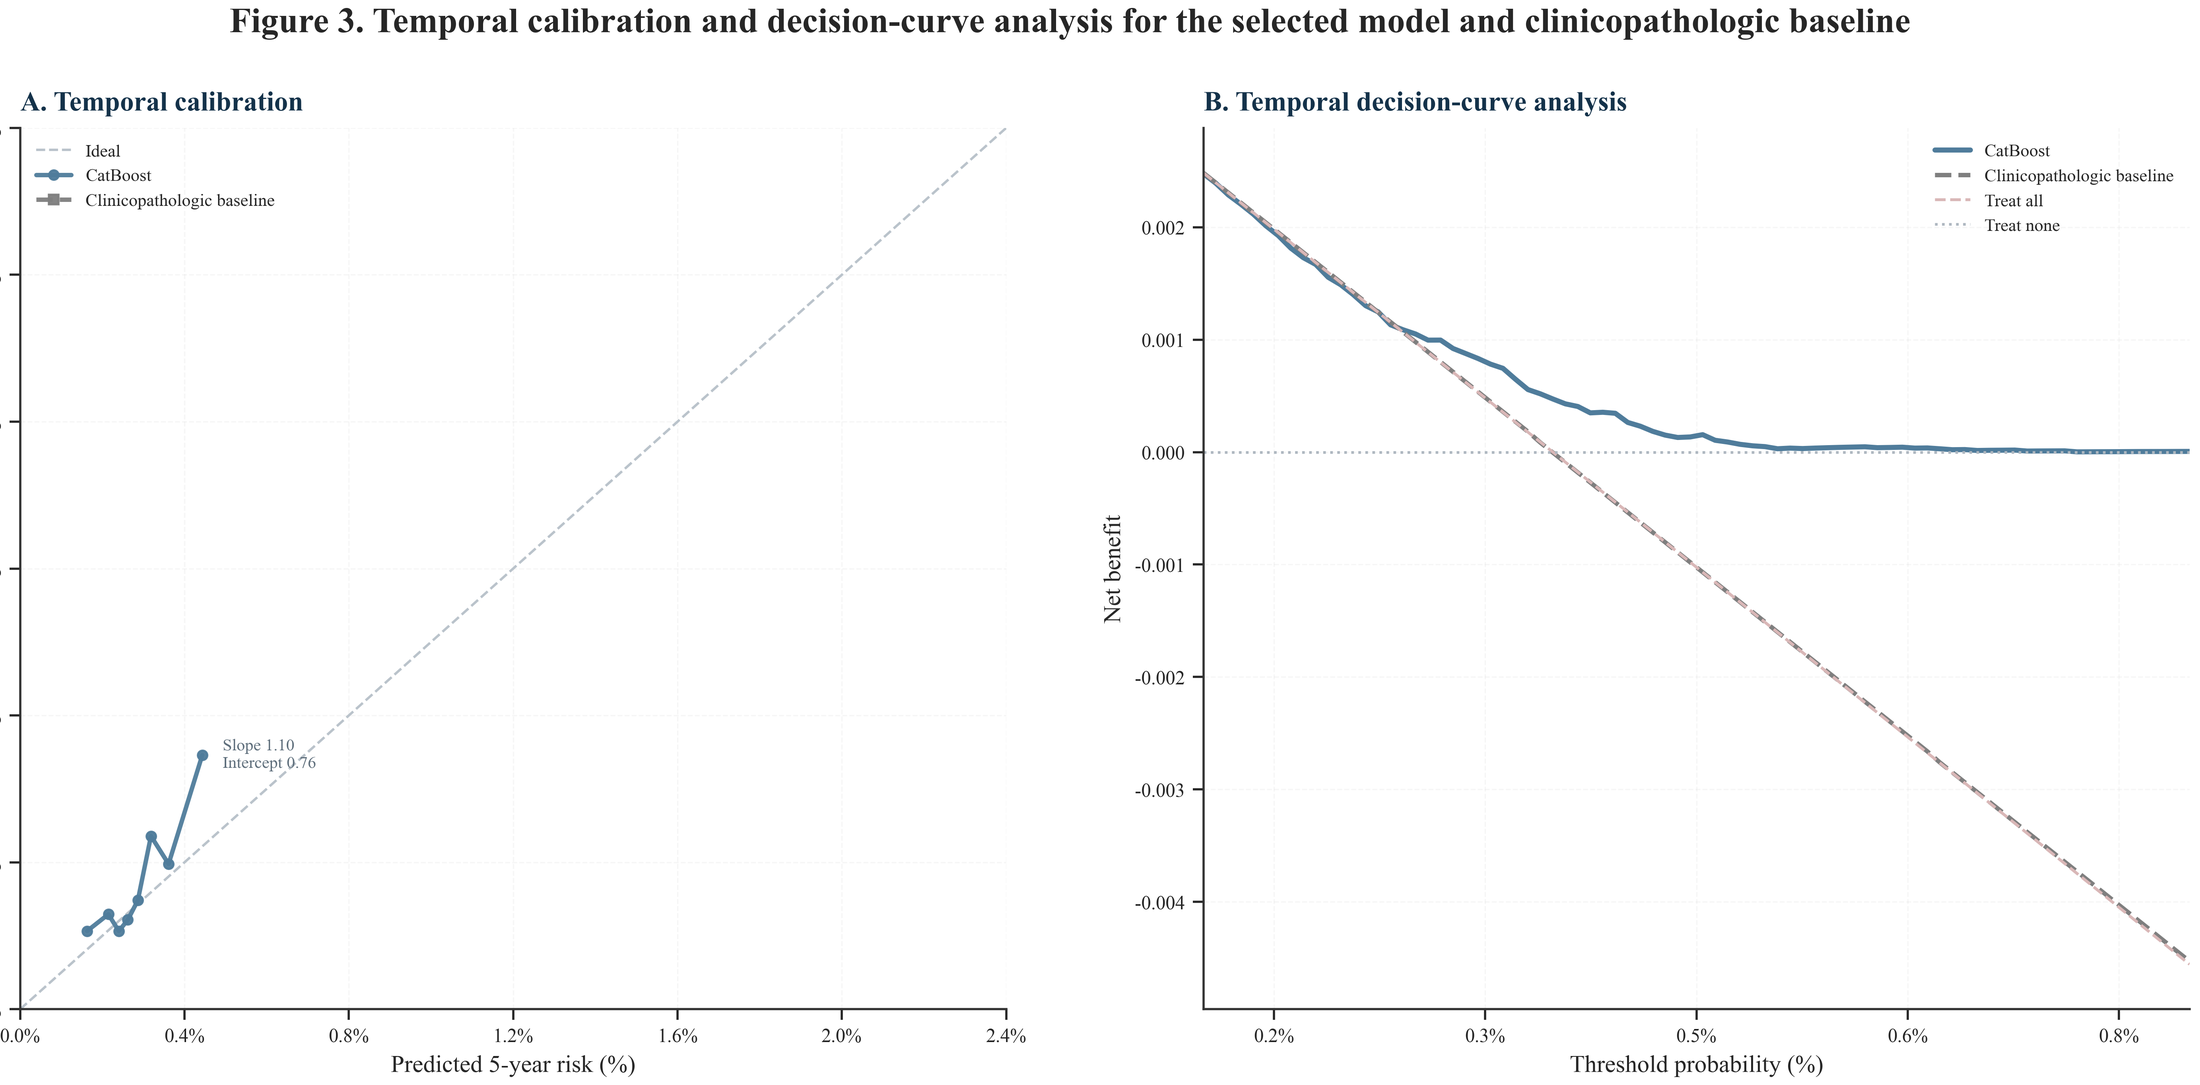
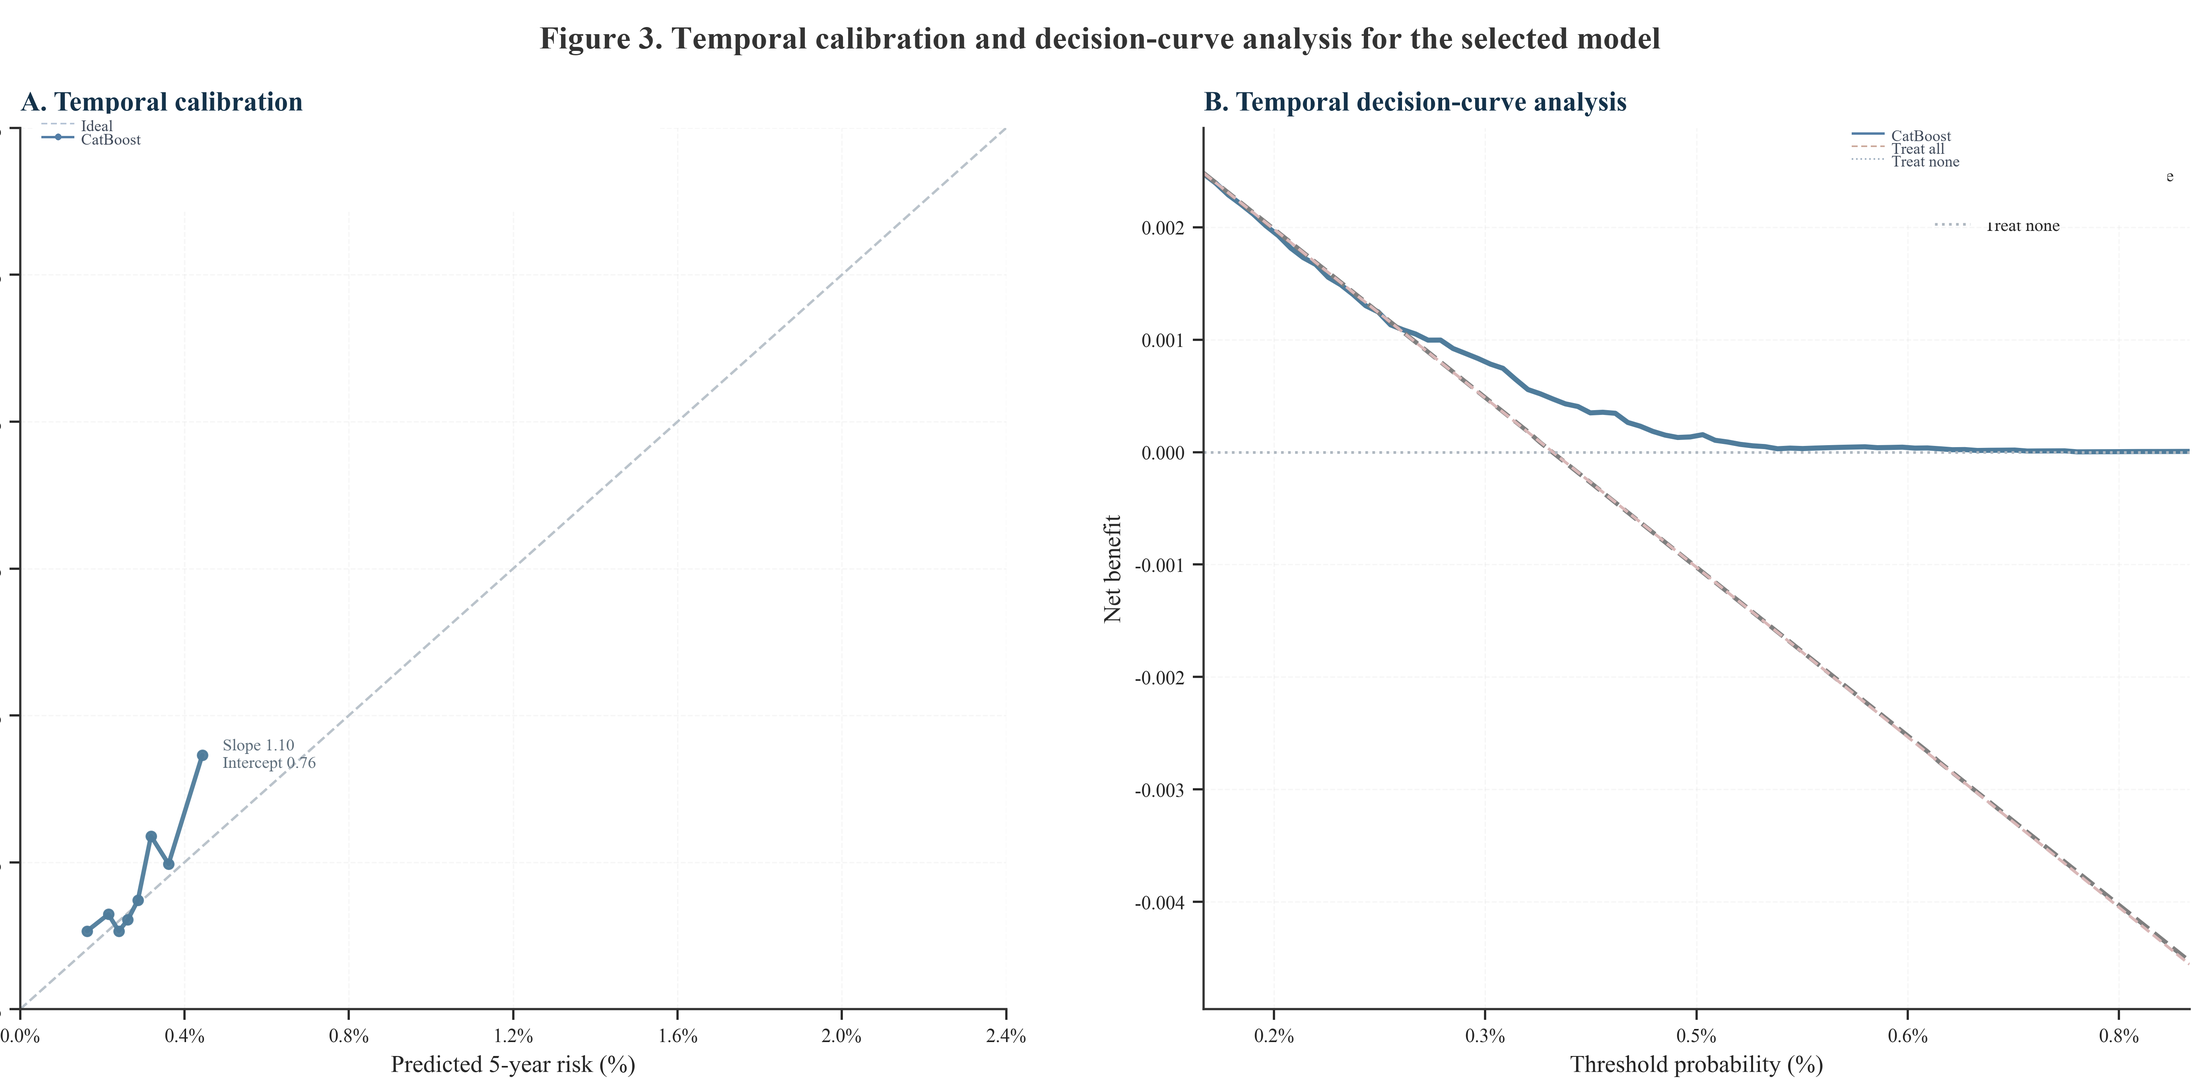
Refresh manuscript figures and web gallery

diff --git a/index.html b/index.html
@@ -204,7 +204,7 @@
             <article class="gallery-card" data-reveal data-delay="3">
               <img src="assets/figures/main/figure-3.png" alt="Figure 3">
               <div class="metric-value" style="font-size:22px; margin-top:0;">Figure 3</div>
-              <p class="gallery-caption">Temporal calibration and clinical utility for the selected model and the clinicopathologic baseline. Panel A shows the temporal calibration relationship between predicted 5-year risk and observed 5-year event rate for the selected calibrated model and the clinicopathologic baseline, together with the ideal line. Panel B shows temporal decision-curve analysis for the same two models, with treat-all and treat-none strategies included to define the clinical utility range. The broader all-model calibration and decision-curve comparisons are intentionally reported in eFigure 1 and eFigure 2 to preserve main-text clarity.</p>
+              <p class="gallery-caption">Temporal calibration and decision-curve analysis for the selected deployment model. Panel A shows the temporal calibration relationship between predicted 5-year risk and observed 5-year event rate for the selected calibrated CatBoost model, together with the ideal line. Panel B shows temporal decision-curve analysis for the same model with treat-all and treat-none strategies. The clinicopathologic baseline benchmark is retained in Table 3 and in eFigure 1-2 because its temporal calibration and net-benefit traces showed minimal visual separation in the main-panel range.</p>
             </article>
             
             <article class="gallery-card" data-reveal data-delay="4">
@@ -217,6 +217,12 @@
               <img src="assets/figures/main/figure-5.png" alt="Figure 5">
               <div class="metric-value" style="font-size:22px; margin-top:0;">Figure 5</div>
               <p class="gallery-caption">SHAP summary of the selected deployment model. Panel A shows the global SHAP ranking by mean absolute SHAP value. Panel B shows a SHAP beeswarm summary, with each point representing a patient-level SHAP contribution for one aggregated feature.</p>
+            </article>
+            
+            <article class="gallery-card" data-reveal data-delay="1">
+              <img src="assets/figures/main/figure-6.png" alt="Figure 6">
+              <div class="metric-value" style="font-size:22px; margin-top:0;">Figure 6</div>
+              <p class="gallery-caption">Public static manuscript showcase and deployment preview. The figure shows the web-facing translation surface used to present the locked manuscript figures, risk-group thresholds, and downloadable study materials. The public static URL is https://breast-thyroid-spc-risk-site.onrender.com.</p>
             </article>
             </div>
       <div class="gallery-grid" data-gallery-panel="supplementary" hidden>
@@ -241,7 +247,7 @@
             <article class="gallery-card" data-reveal data-delay="4">
               <img src="assets/figures/supplementary/efigure-4.png" alt="eFigure 4">
               <div class="metric-value" style="font-size:22px; margin-top:0;">eFigure 4</div>
-              <p class="gallery-caption">R-based Pearson correlation heatmap derived from the encoded candidate-feature matrix used for structure review before LASSO screening.</p>
+              <p class="gallery-caption">R-based Pearson correlation heatmap of the retained clinicopathologic feature matrix used for post-screening collinearity review. The panel is intended to show correlation structure rather than to justify arbitrary pre-model feature removal.</p>
             </article>
             
             <article class="gallery-card" data-reveal data-delay="5">

diff --git a/assets/downloads/Figure Legends.md b/assets/downloads/Figure Legends.md
@@ -7,13 +7,16 @@ Cohort derivation flow for the month-level SEER analysis. The diagram summarizes
 Temporal discrimination across six machine-learning models and three benchmark comparators. Panel A shows temporal receiver operating characteristic curves for all models, with AUROC and 95% confidence intervals reported in the adjacent legend. Panel B shows temporal precision-recall curves for the same models using raw step functions. The dashed horizontal reference line marks the temporal event prevalence, which approximates the chance level for precision in this very-low-incidence setting. The precision axis is displayed from 0 to 0.006 to emphasize the clinically relevant low-prevalence range.
 
 ## Figure 3
-Temporal calibration and clinical utility for the selected model and the clinicopathologic baseline. Panel A shows the temporal calibration relationship between predicted 5-year risk and observed 5-year event rate for the selected calibrated model and the clinicopathologic baseline, together with the ideal line. Panel B shows temporal decision-curve analysis for the same two models, with treat-all and treat-none strategies included to define the clinical utility range. The broader all-model calibration and decision-curve comparisons are intentionally reported in eFigure 1 and eFigure 2 to preserve main-text clarity.
+Temporal calibration and decision-curve analysis for the selected deployment model. Panel A shows the temporal calibration relationship between predicted 5-year risk and observed 5-year event rate for the selected calibrated CatBoost model, together with the ideal line. Panel B shows temporal decision-curve analysis for the same model with treat-all and treat-none strategies. The clinicopathologic baseline benchmark is retained in Table 3 and in eFigure 1-2 because its temporal calibration and net-benefit traces showed minimal visual separation in the main-panel range.
 
 ## Figure 4
 Youden-anchored temporal risk-group presentation. Panel A shows mean predicted 5-year risk across low-, intermediate-, and high-risk groups defined by probability bands of <0.0022, 0.0022 to <0.0028, and >=0.0028. Panel B shows the corresponding observed 5-year event rates with event counts.
 
 ## Figure 5
 SHAP summary of the selected deployment model. Panel A shows the global SHAP ranking by mean absolute SHAP value. Panel B shows a SHAP beeswarm summary, with each point representing a patient-level SHAP contribution for one aggregated feature.
+
+## Figure 6
+Public static manuscript showcase and deployment preview. The figure shows the web-facing translation surface used to present the locked manuscript figures, risk-group thresholds, and downloadable study materials. The public static URL is https://breast-thyroid-spc-risk-site.onrender.com.
 
 # eFigure Legends
 
@@ -27,7 +30,7 @@ All-model temporal decision-curve analysis. Panel A shows the six machine-learni
 Temporal precision-recall detail. Panel A preserves the full 0-1 precision scale, whereas Panel B zooms into the low-precision range that contains the dominant signal for this low-incidence endpoint.
 
 ## eFigure 4
-R-based Pearson correlation heatmap derived from the encoded candidate-feature matrix used for structure review before LASSO screening.
+R-based Pearson correlation heatmap of the retained clinicopathologic feature matrix used for post-screening collinearity review. The panel is intended to show correlation structure rather than to justify arbitrary pre-model feature removal.
 
 ## eFigure 5
 LASSO coefficient path for the leading candidate predictors across the regularization range.
@@ -50,6 +53,7 @@ Cumulative absolute risk of second primary thyroid cancer across the 5-year wind
 - `Figure_3.tif`
 - `Figure_4.tif`
 - `Figure_5.tif`
+- `Figure_6.tif`
 
 ## Supplementary file list
 - `eFigure_4.tif`
